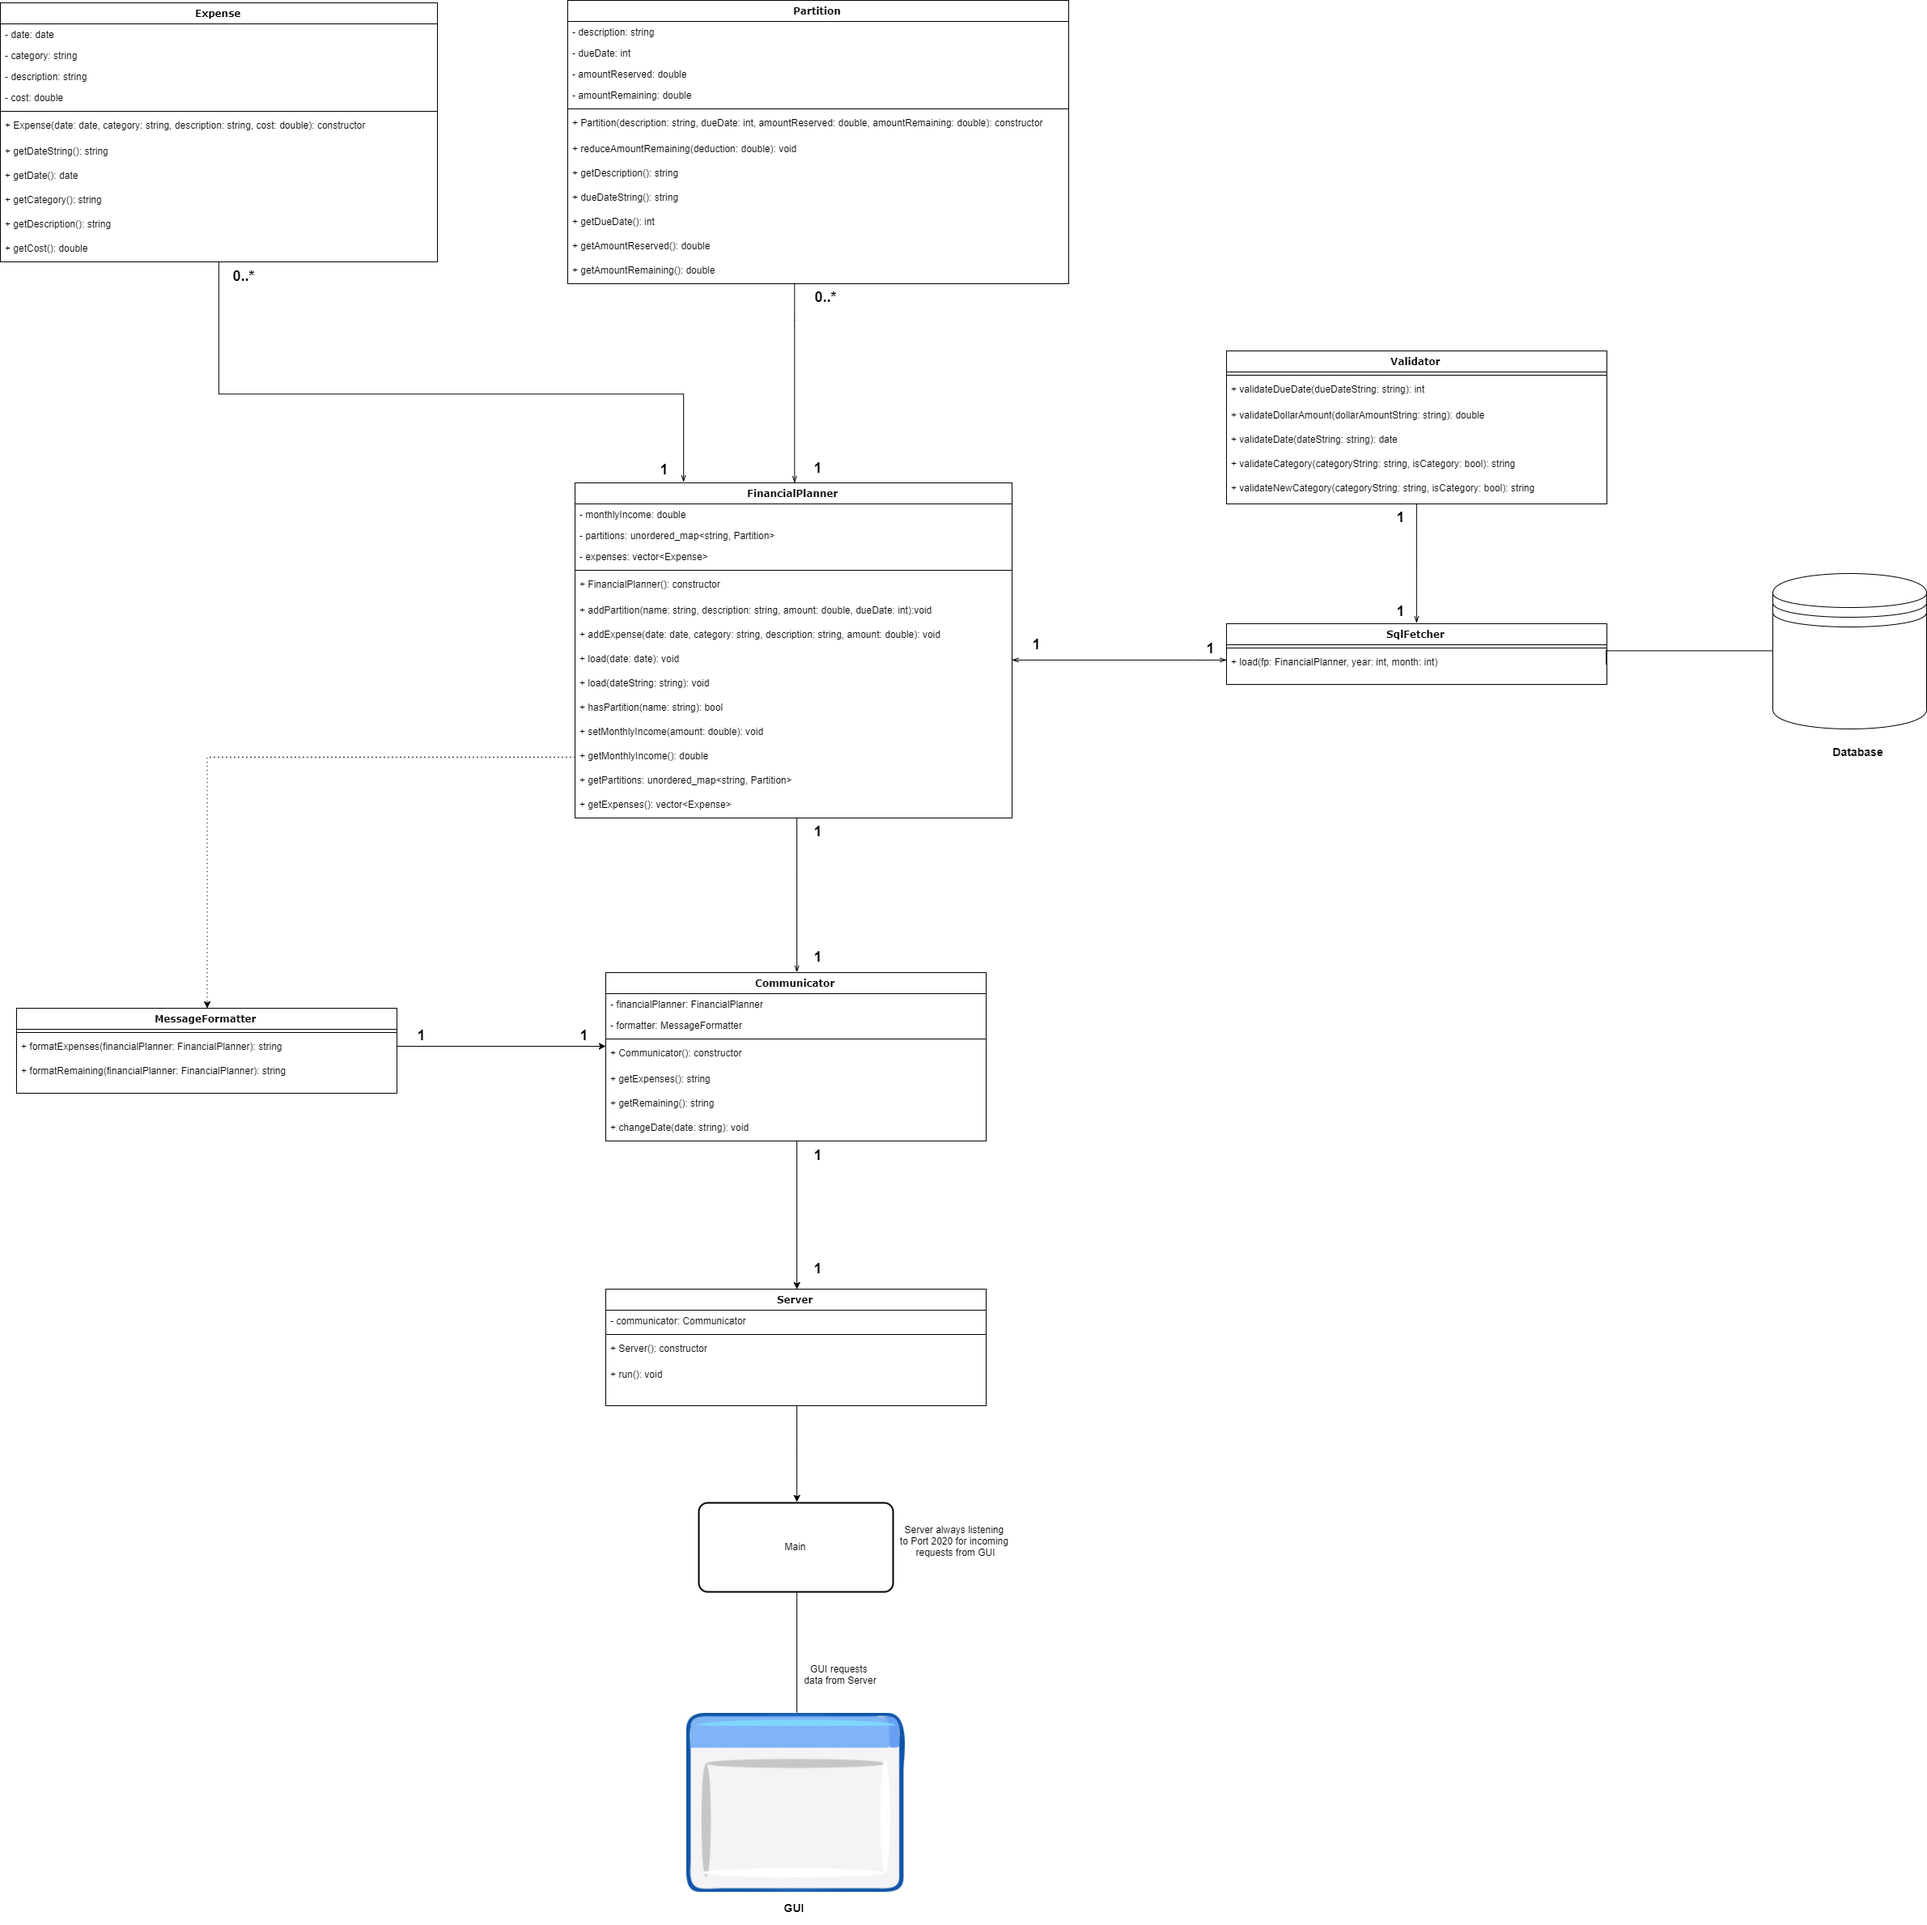
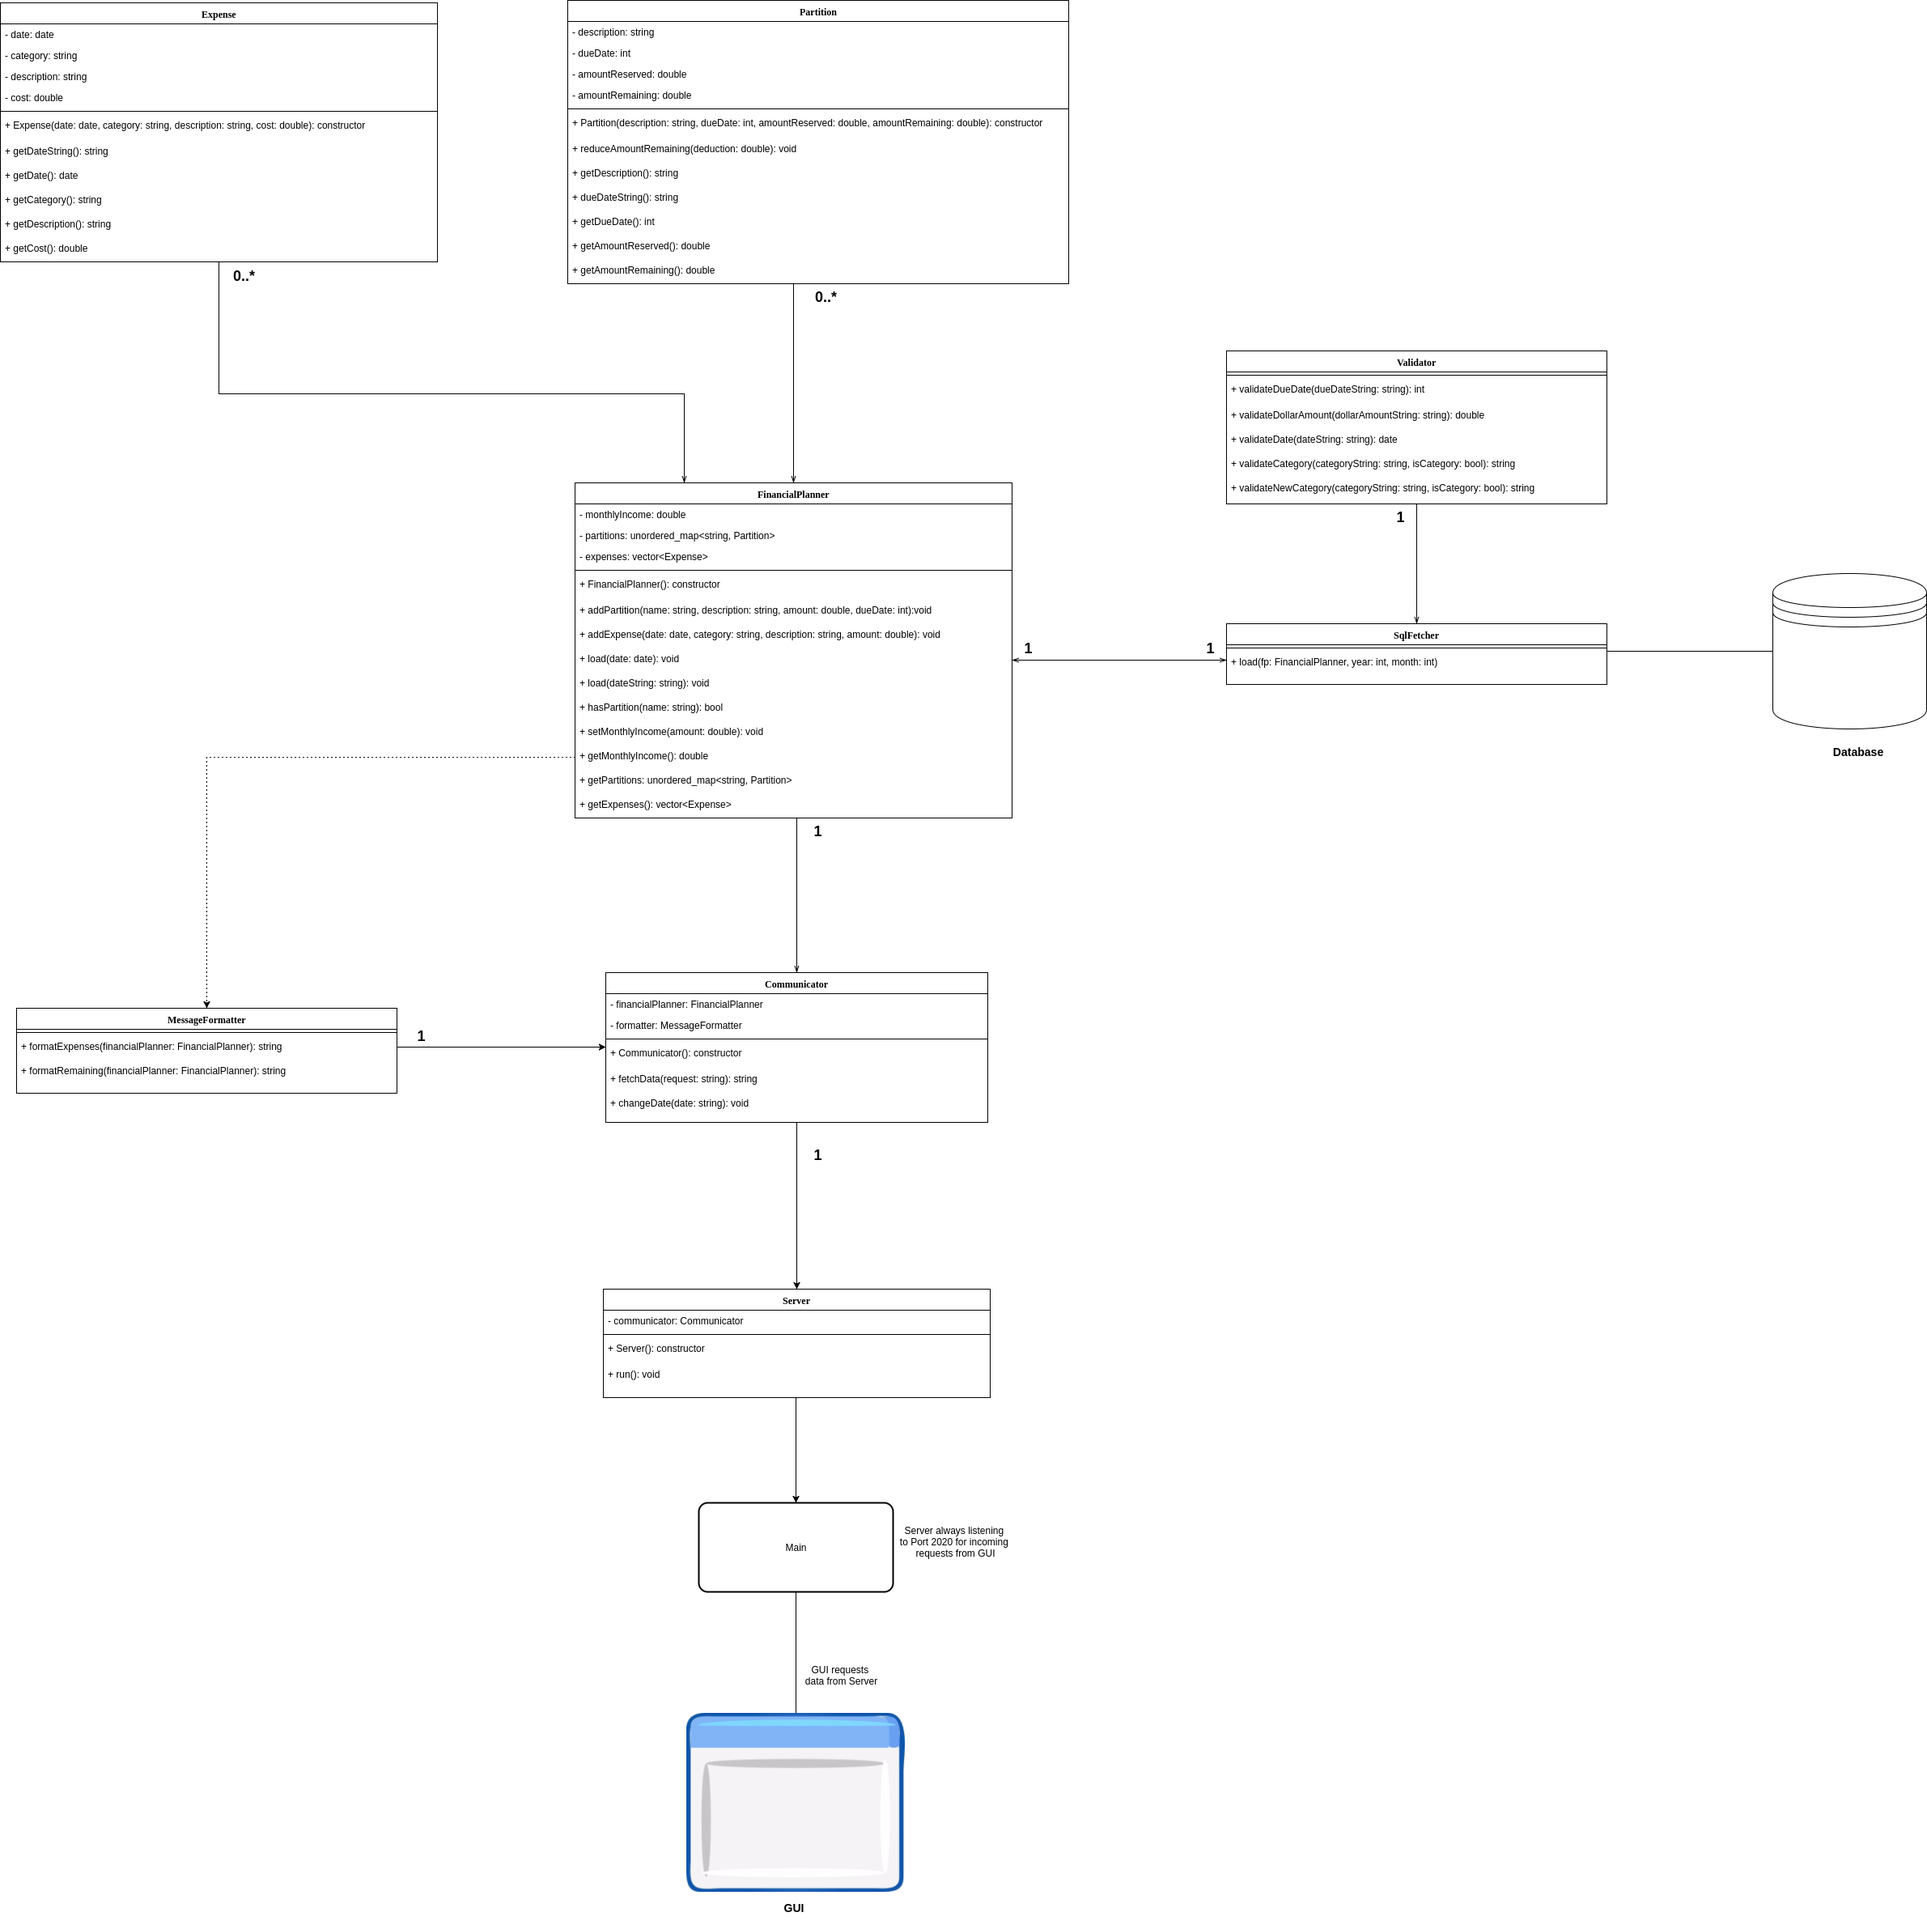
Made it so server can send different data based on request.
Now when the server recieves a message, it will read that message and
return specific data based on the message it recieved.

diff --git a/src/view/Client.js b/src/view/Client.js
@@ -3,9 +3,10 @@ const net = require('net');
 const HOST = 'localhost';
 const PORT = 2020;
 
-const message = 'I am the client';
+const message = 'FETCH REMAINING';
 
 const client = new net.Socket();
+
 client.connect(PORT, HOST, function() {
   console.log('Connected to: ' + HOST + ':' + PORT + '\n');
   console.log('Sending message: ' + message);

diff --git a/src/model/Server.C b/src/model/Server.C
@@ -17,14 +17,11 @@ string readMessage(tcp::socket& socket)
 
 Server::Server()
   : _communicator{ Communicator() }
-{
-  _communicator.changeDate("2017-Aug-01");
-}
+{}
 
 void Server::run() 
 {
-  string outgoingMessage { _communicator.getRemaining() };
-  string incomingMessage {};
+  string request {};
 
   asio::io_service io_service;
   tcp::acceptor acceptor(io_service, tcp::endpoint(tcp::v4(), 2020));
@@ -35,10 +32,11 @@ void Server::run()
     cout << "Awaiting message..." << endl;
     acceptor.accept(socket);
 
-    incomingMessage = { readMessage(socket) };
-    cout << "Received message: " <<  incomingMessage << "\n\n";;
+    request = { readMessage(socket) };
+    cout << "Received message: " <<  request << "\n\n";;
 
-    cout << "Sending message: \n\n" << outgoingMessage << "\n\n";
-    asio::write(socket, asio::buffer(outgoingMessage));
+    string response { _communicator.fetchData(request) };
+    cout << "Sending message: \n\n" << response << "\n\n";
+    asio::write(socket, asio::buffer(response));
   }
 }

diff --git a/src/model/Communicator.C b/src/model/Communicator.C
@@ -7,14 +7,21 @@ Communicator::Communicator()
     _formatter{ MessageFormatter() }
 {}
 
-string Communicator::getExpenses()
+string Communicator::fetchData(const string& request)
 {
-  return _formatter.formatExpenses(_financialPlanner);
-}
-
-string Communicator::getRemaining()
-{
-  return _formatter.formatRemaining(_financialPlanner);
+  if (request == "FETCH EXPENSES")
+  {
+    return _formatter.formatExpenses(_financialPlanner);
+  }
+  else if (request == "FETCH REMAINING")
+  {
+    return _formatter.formatRemaining(_financialPlanner);
+  }
+  else
+  {
+    cout << "Received invalid message from Client" << endl;
+    exit(1);
+  }
 }
 
 void Communicator::changeDate(const string& date)

diff --git a/src/model/Communicator.H b/src/model/Communicator.H
@@ -8,9 +8,7 @@ class Communicator
   public:
     Communicator();
 
-    std::string getExpenses();
-
-    std::string getRemaining();
+    std::string fetchData(const std::string& request);
 
     void changeDate(const std::string& date);
 
